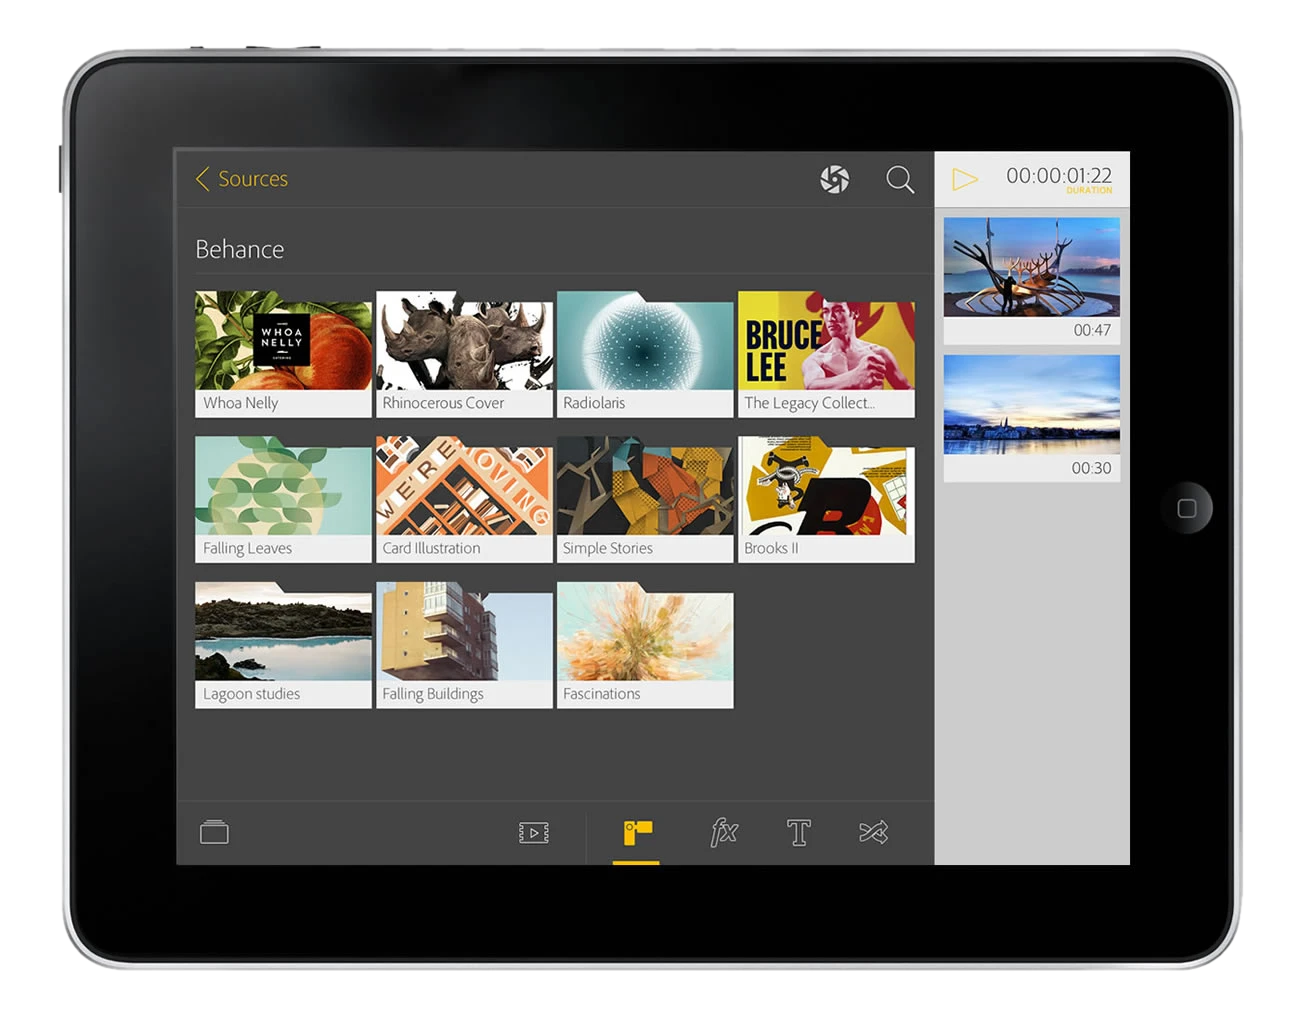
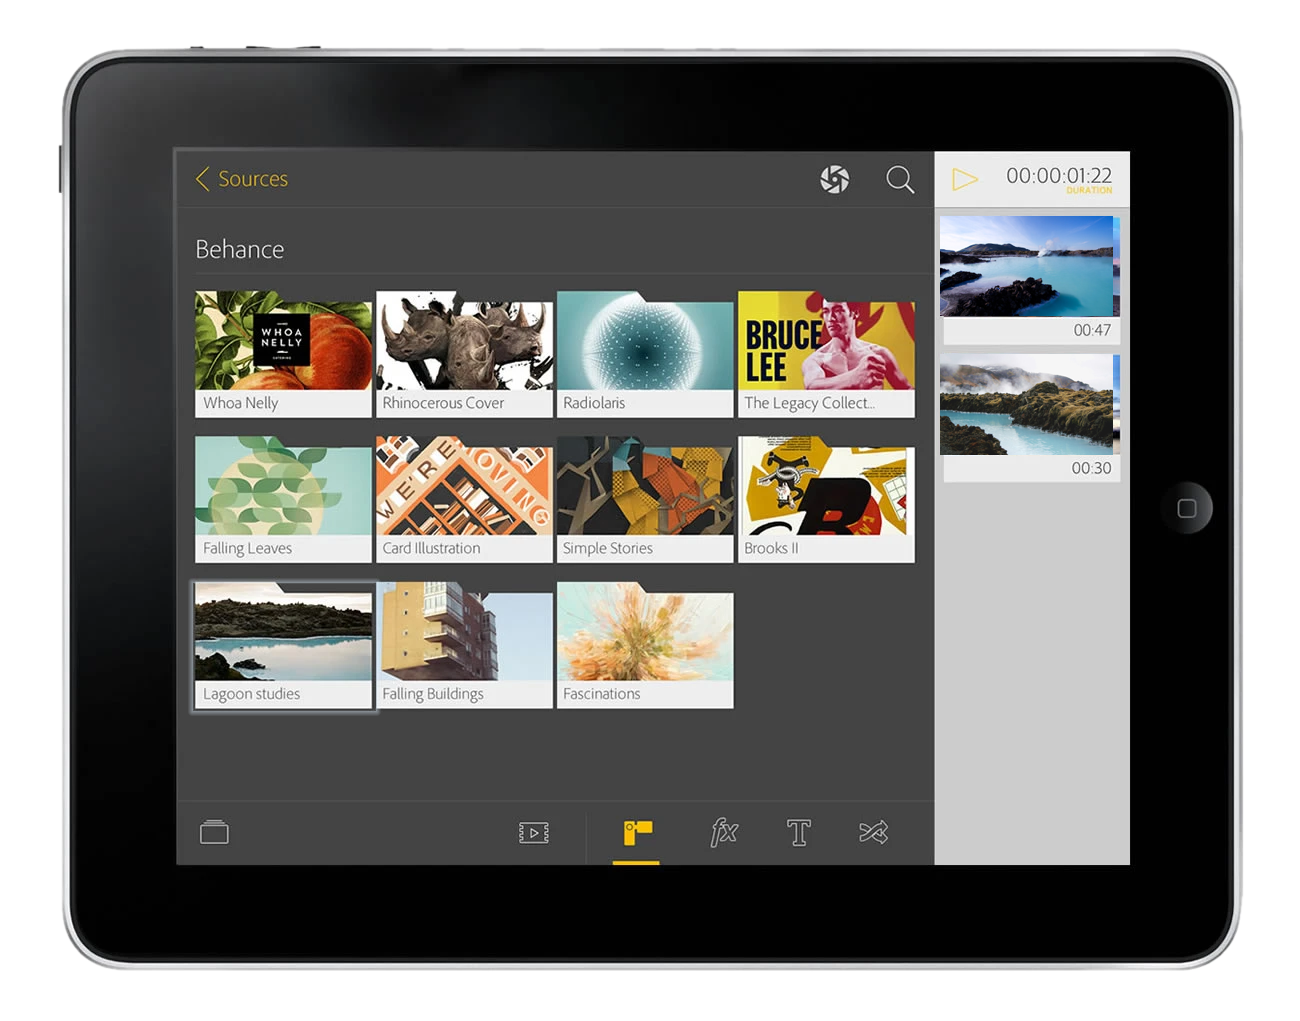
Adobe: swap rail thumbnails for Blue Lagoon photos (matching Lagoon studies) + subtle highlight on that folder
Replace the two right-rail clip thumbnails in the hero and home thumbnail with free-license
(Unsplash) Blue Lagoon Iceland photos matching the on-screen Lagoon studies aesthetic; add a
subtle glow highlight to the Lagoon studies folder. Regenerated hero cutout and thumb crop.

Changed region(s): [[0.7077, 0.2125, 0.8615, 0.4554], [0.1538, 0.5465, 0.2769, 0.5769], [0.1231, 0.668, 0.1538, 0.6983]]

diff --git a/adobe.html b/adobe.html
@@ -176,7 +176,7 @@
     </div>
   </div>
   <div class="dhero-r">
-    <div class="dvisual"><img src="assets/img/adobe-hero.png?v=2" alt="Adobe tablet app — the Sources view browsing Behance projects, with a clip timeline and duration on the right" /></div>
+    <div class="dvisual"><img src="assets/img/adobe-hero.png?v=3" alt="Adobe tablet app — the Sources view browsing Behance projects, with a clip timeline and duration on the right" /></div>
     <div class="sbands">
       <div class="sband"><span class="num">Touch</span><span class="desc">A timeline rebuilt for fingers, not a mouse</span></div>
       <div class="sband"><span class="num">Behance</span><span class="desc">Source footage and inspiration in a tap</span></div>

diff --git a/index.html b/index.html
@@ -361,7 +361,7 @@
           <div class="tags"><span class="tag">iPad</span><span class="tag">Video</span><span class="tag">UX/UI</span></div>
           <span class="case-link">Open case study ↗</span>
         </div>
-        <div class="visual glow"><img class="shot" src="assets/img/adobe-thumb.png?v=1" alt="Adobe tablet video-editing app on iPad" /></div>
+        <div class="visual glow"><img class="shot" src="assets/img/adobe-thumb.png?v=2" alt="Adobe tablet video-editing app on iPad" /></div>
       </a>
 
     </div>
